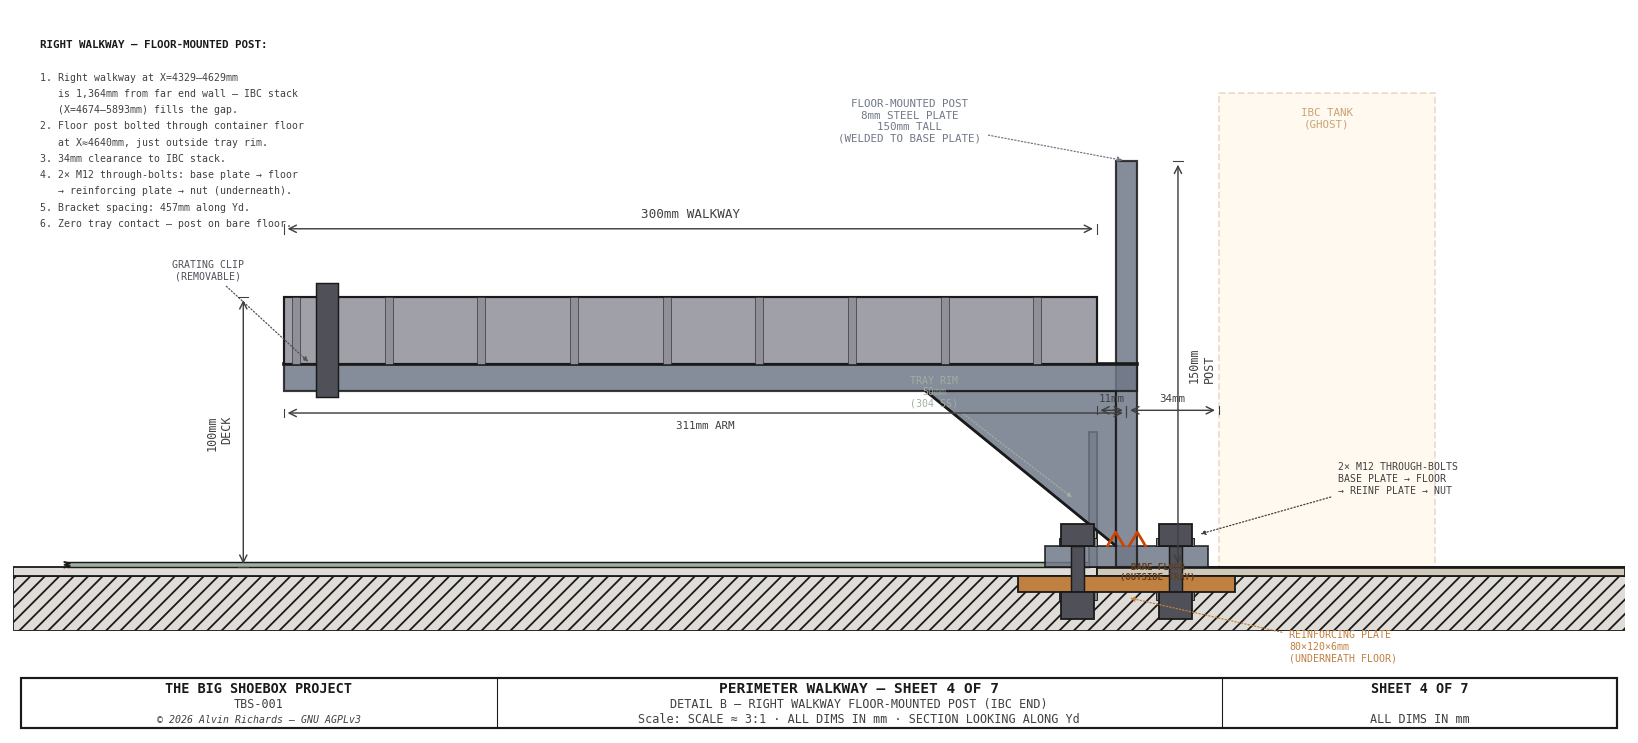
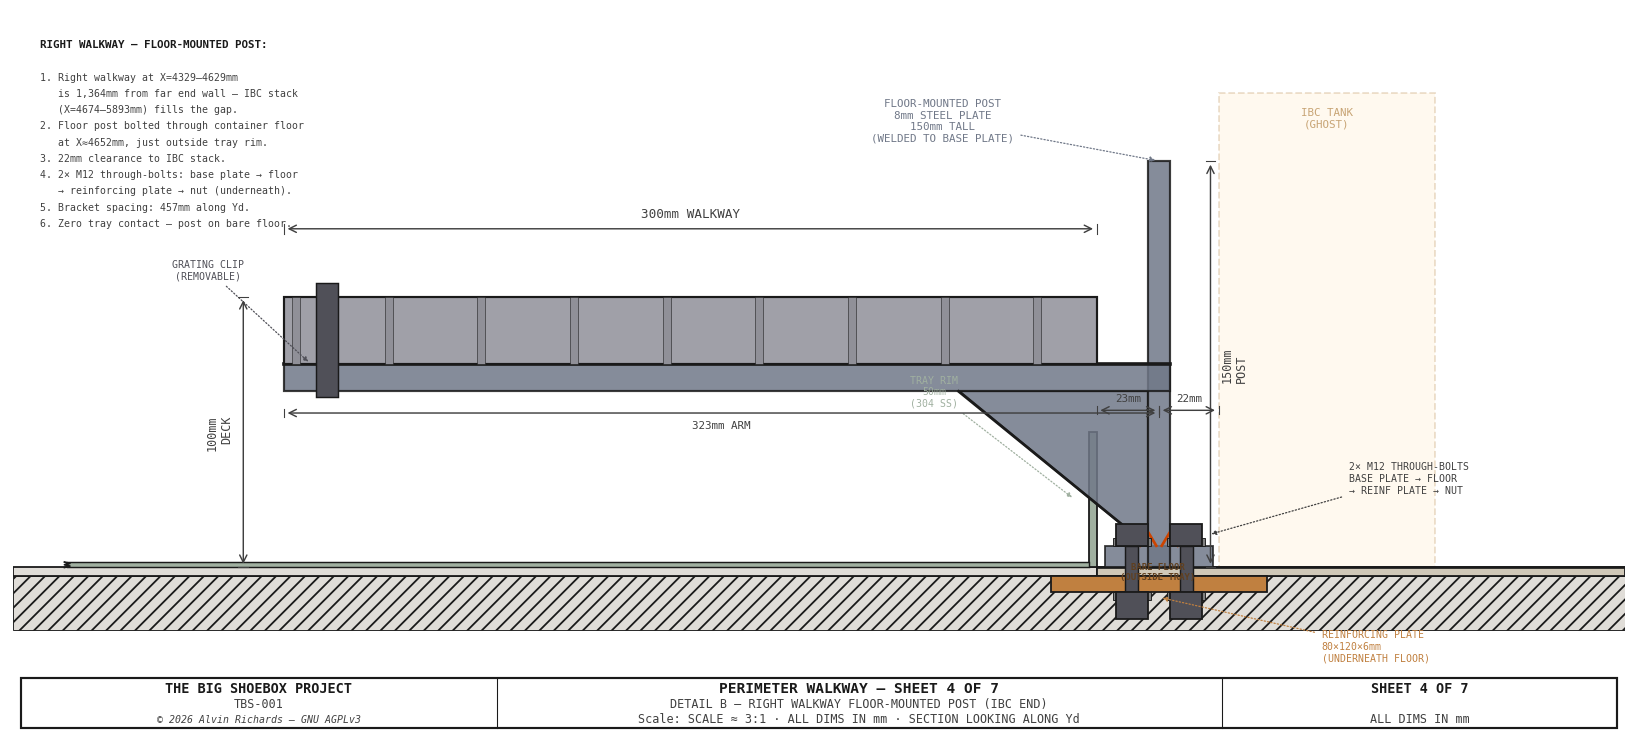
Fix right walkway post: base plate and bolts entirely outside tray
Shifted post to X=4,652mm, narrowed base plate to 40mm, and
positioned left edge at tray rim + 3mm clearance. Both bolts now
clearly on bare floor outside the processing tray.

diff --git a/generate_walkway_diagram.py b/generate_walkway_diagram.py
@@ -1124,7 +1124,7 @@ def sheet4():
     # Tray right rim at X = 4,629mm (PROC_TRAY_X_R)
     # IBC stack starts at X = 4,674mm
     # Floor post at X ≈ 4,640mm (just outside tray rim, 34mm clearance to IBCs)
-    POST_X     = 4640     # floor post center X position (mm)
+    POST_X     = 4652     # floor post center X position (mm)
     TRAY_RIM_X = PROC_TRAY_X_R  # = 4,629mm
     IBC_X      = 4674     # IBC stack inner face
     POST_TO_TRAY = POST_X - TRAY_RIM_X  # = 11mm gap between post and tray rim
@@ -1192,17 +1192,6 @@ def sheet4():
                             sx(X_HI - X_LO), sy(20),
                             fc="#E0DDD8", ec=C_OUT, lw=0.5, hatch="///", zorder=2))
 
-    # ── Reinforcing plate (underneath floor, centered on post) ───────────────
-    reinf_left = POST_DX - REINF_W / 2
-    ax.add_patch(Rectangle((sx(reinf_left), sy(-FLOOR_T - REINF_T)),
-                            sx(REINF_W), sy(REINF_T),
-                            fc="#C08040", ec=C_OUT, lw=1.0, zorder=4))
-    leader(ax, sx(reinf_left + REINF_W / 2), sy(-FLOOR_T - REINF_T - 2),
-           sx(reinf_left + REINF_W / 2 + 60), sy(-FLOOR_T - REINF_T - 20),
-           f"REINFORCING PLATE\n{REINF_W}\u00d7{REINF_H}\u00d7{REINF_T}mm\n(UNDERNEATH FLOOR)",
-           color="#C08040", fs=5.5,
-           ha="left", va="center", arrow_style="-|>", font=FONT)
-
     # ── Processing tray ──────────────────────────────────────────────────────
     # Tray right rim (vertical wall)
     ax.add_patch(Rectangle((sx(TRAY_DX - TRAY_WALL), sy(0)),
@@ -1232,10 +1221,13 @@ def sheet4():
                             sx(BRKT_T), sy(BRKT_VERT),
                             fc=C_BRKT, ec=C_OUT, lw=1.2, zorder=6, alpha=0.85))
 
-    # ── Base plate (welded to post bottom, sits on floor) ────────────────────
-    BASE_W = 60   # base plate width
+    # ── Base plate (welded to post bottom, sits on bare floor) ─────────────
+    # Base plate must be entirely outside tray rim (TRAY_DX).
+    # Left edge at TRAY_DX + 3mm clearance.
+    BASE_W = 40   # base plate width (mm) — fits between tray rim and IBC
     BASE_T = 8    # base plate thickness
-    ax.add_patch(Rectangle((sx(POST_DX - BASE_W / 2), sy(0)),
+    base_left = TRAY_DX + 3  # 3mm clearance from tray rim
+    ax.add_patch(Rectangle((sx(base_left), sy(0)),
                             sx(BASE_W), sy(BASE_T),
                             fc=C_BRKT, ec=C_OUT, lw=1.0, zorder=5, alpha=0.85))
     # Weld symbols at post-to-base junction
@@ -1246,9 +1238,10 @@ def sheet4():
                 color="#CC4400", lw=1.5, zorder=8)
 
     # ── Through-bolts (2× M12 through base plate + floor + reinf plate) ──────
+    # Both bolts within base plate, entirely on bare floor
     C_BOLT = "#505058"
-    bolt_x1 = POST_DX - 18
-    bolt_x2 = POST_DX + 18
+    bolt_x1 = base_left + 10
+    bolt_x2 = base_left + BASE_W - 10
 
     for bx_bolt in [bolt_x1, bolt_x2]:
         shank_hw = BOLT_R * 0.4
@@ -1279,6 +1272,17 @@ def sheet4():
            sx(bolt_x2 + 60), sy(BASE_T + 25),
            f"2\u00d7 M{BOLT_D} THROUGH-BOLTS\nBASE PLATE \u2192 FLOOR\n\u2192 REINF PLATE \u2192 NUT",
            color=C_DIM, fs=5.5,
+           ha="left", va="center", arrow_style="-|>", font=FONT)
+
+    # ── Reinforcing plate (underneath floor, centered on base plate) ────────
+    reinf_left = base_left + BASE_W / 2 - REINF_W / 2
+    ax.add_patch(Rectangle((sx(reinf_left), sy(-FLOOR_T - REINF_T)),
+                            sx(REINF_W), sy(REINF_T),
+                            fc="#C08040", ec=C_OUT, lw=1.0, zorder=4))
+    leader(ax, sx(reinf_left + REINF_W / 2), sy(-FLOOR_T - REINF_T - 2),
+           sx(reinf_left + REINF_W / 2 + 60), sy(-FLOOR_T - REINF_T - 20),
+           f"REINFORCING PLATE\n{REINF_W}\u00d7{REINF_H}\u00d7{REINF_T}mm\n(UNDERNEATH FLOOR)",
+           color="#C08040", fs=5.5,
            ha="left", va="center", arrow_style="-|>", font=FONT)
 
     # ── Horizontal arm (projects LEFT from post toward container interior) ───

diff --git a/tbs_constants.py b/tbs_constants.py
@@ -264,8 +264,8 @@ WALKWAY_BRACKET_H = 150  # bracket vertical leg height on wall (mm)
 WALKWAY_BRACKET_T = 8    # bracket plate thickness (mm)
 WALKWAY_BRACKET_SPACING = CONTAINER_RIB_SPACING  # bracket spacing along walkway (mm)
 # Right walkway floor post (IBC end — too far from end wall for wall mounting)
-WALKWAY_RIGHT_POST_X = 4640  # floor post X position (mm) — just outside tray rim (4,629mm)
-WALKWAY_RIGHT_POST_IBC_CLR = 34  # clearance to IBC stack inner face (mm)
+WALKWAY_RIGHT_POST_X = 4652  # floor post X position (mm) — outside tray rim (4,629mm)
+WALKWAY_RIGHT_POST_IBC_CLR = 22  # clearance to IBC stack inner face (mm)
 # Near walkway (pinhole side): X=tray_L to tray_R, Yd=0 to WALKWAY_W
 WALKWAY_NEAR_YD = 0                          # near edge against pinhole wall
 # Far walkway (film plane side): X=tray_L to tray_R, Yd=C_WID-WALKWAY_W to C_WID
